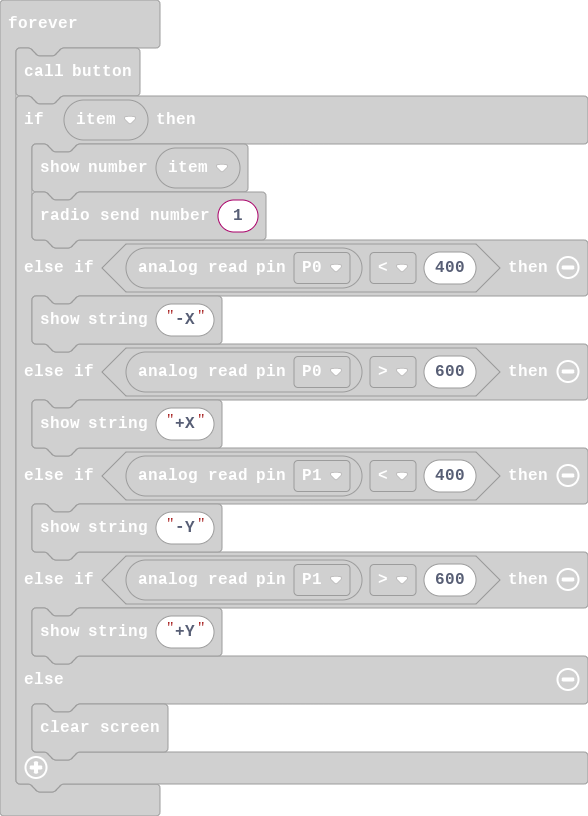
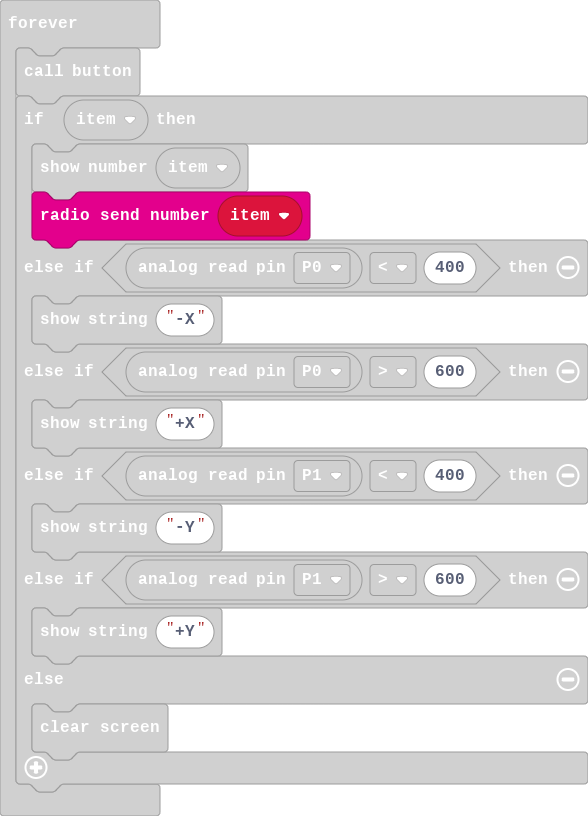
Update main.blocks, main.ts

Changed region(s): [[0.0306, 0.2145, 0.551, 0.3064]]

diff --git a/main.ts b/main.ts
@@ -23,7 +23,7 @@ basic.forever(function () {
     button()
     if (item) {
         basic.showNumber(item)
-        radio.sendNumber(1)
+        radio.sendNumber(item)
     } else if (pins.analogReadPin(AnalogPin.P0) < 400) {
         basic.showString("-X")
     } else if (pins.analogReadPin(AnalogPin.P0) > 600) {
